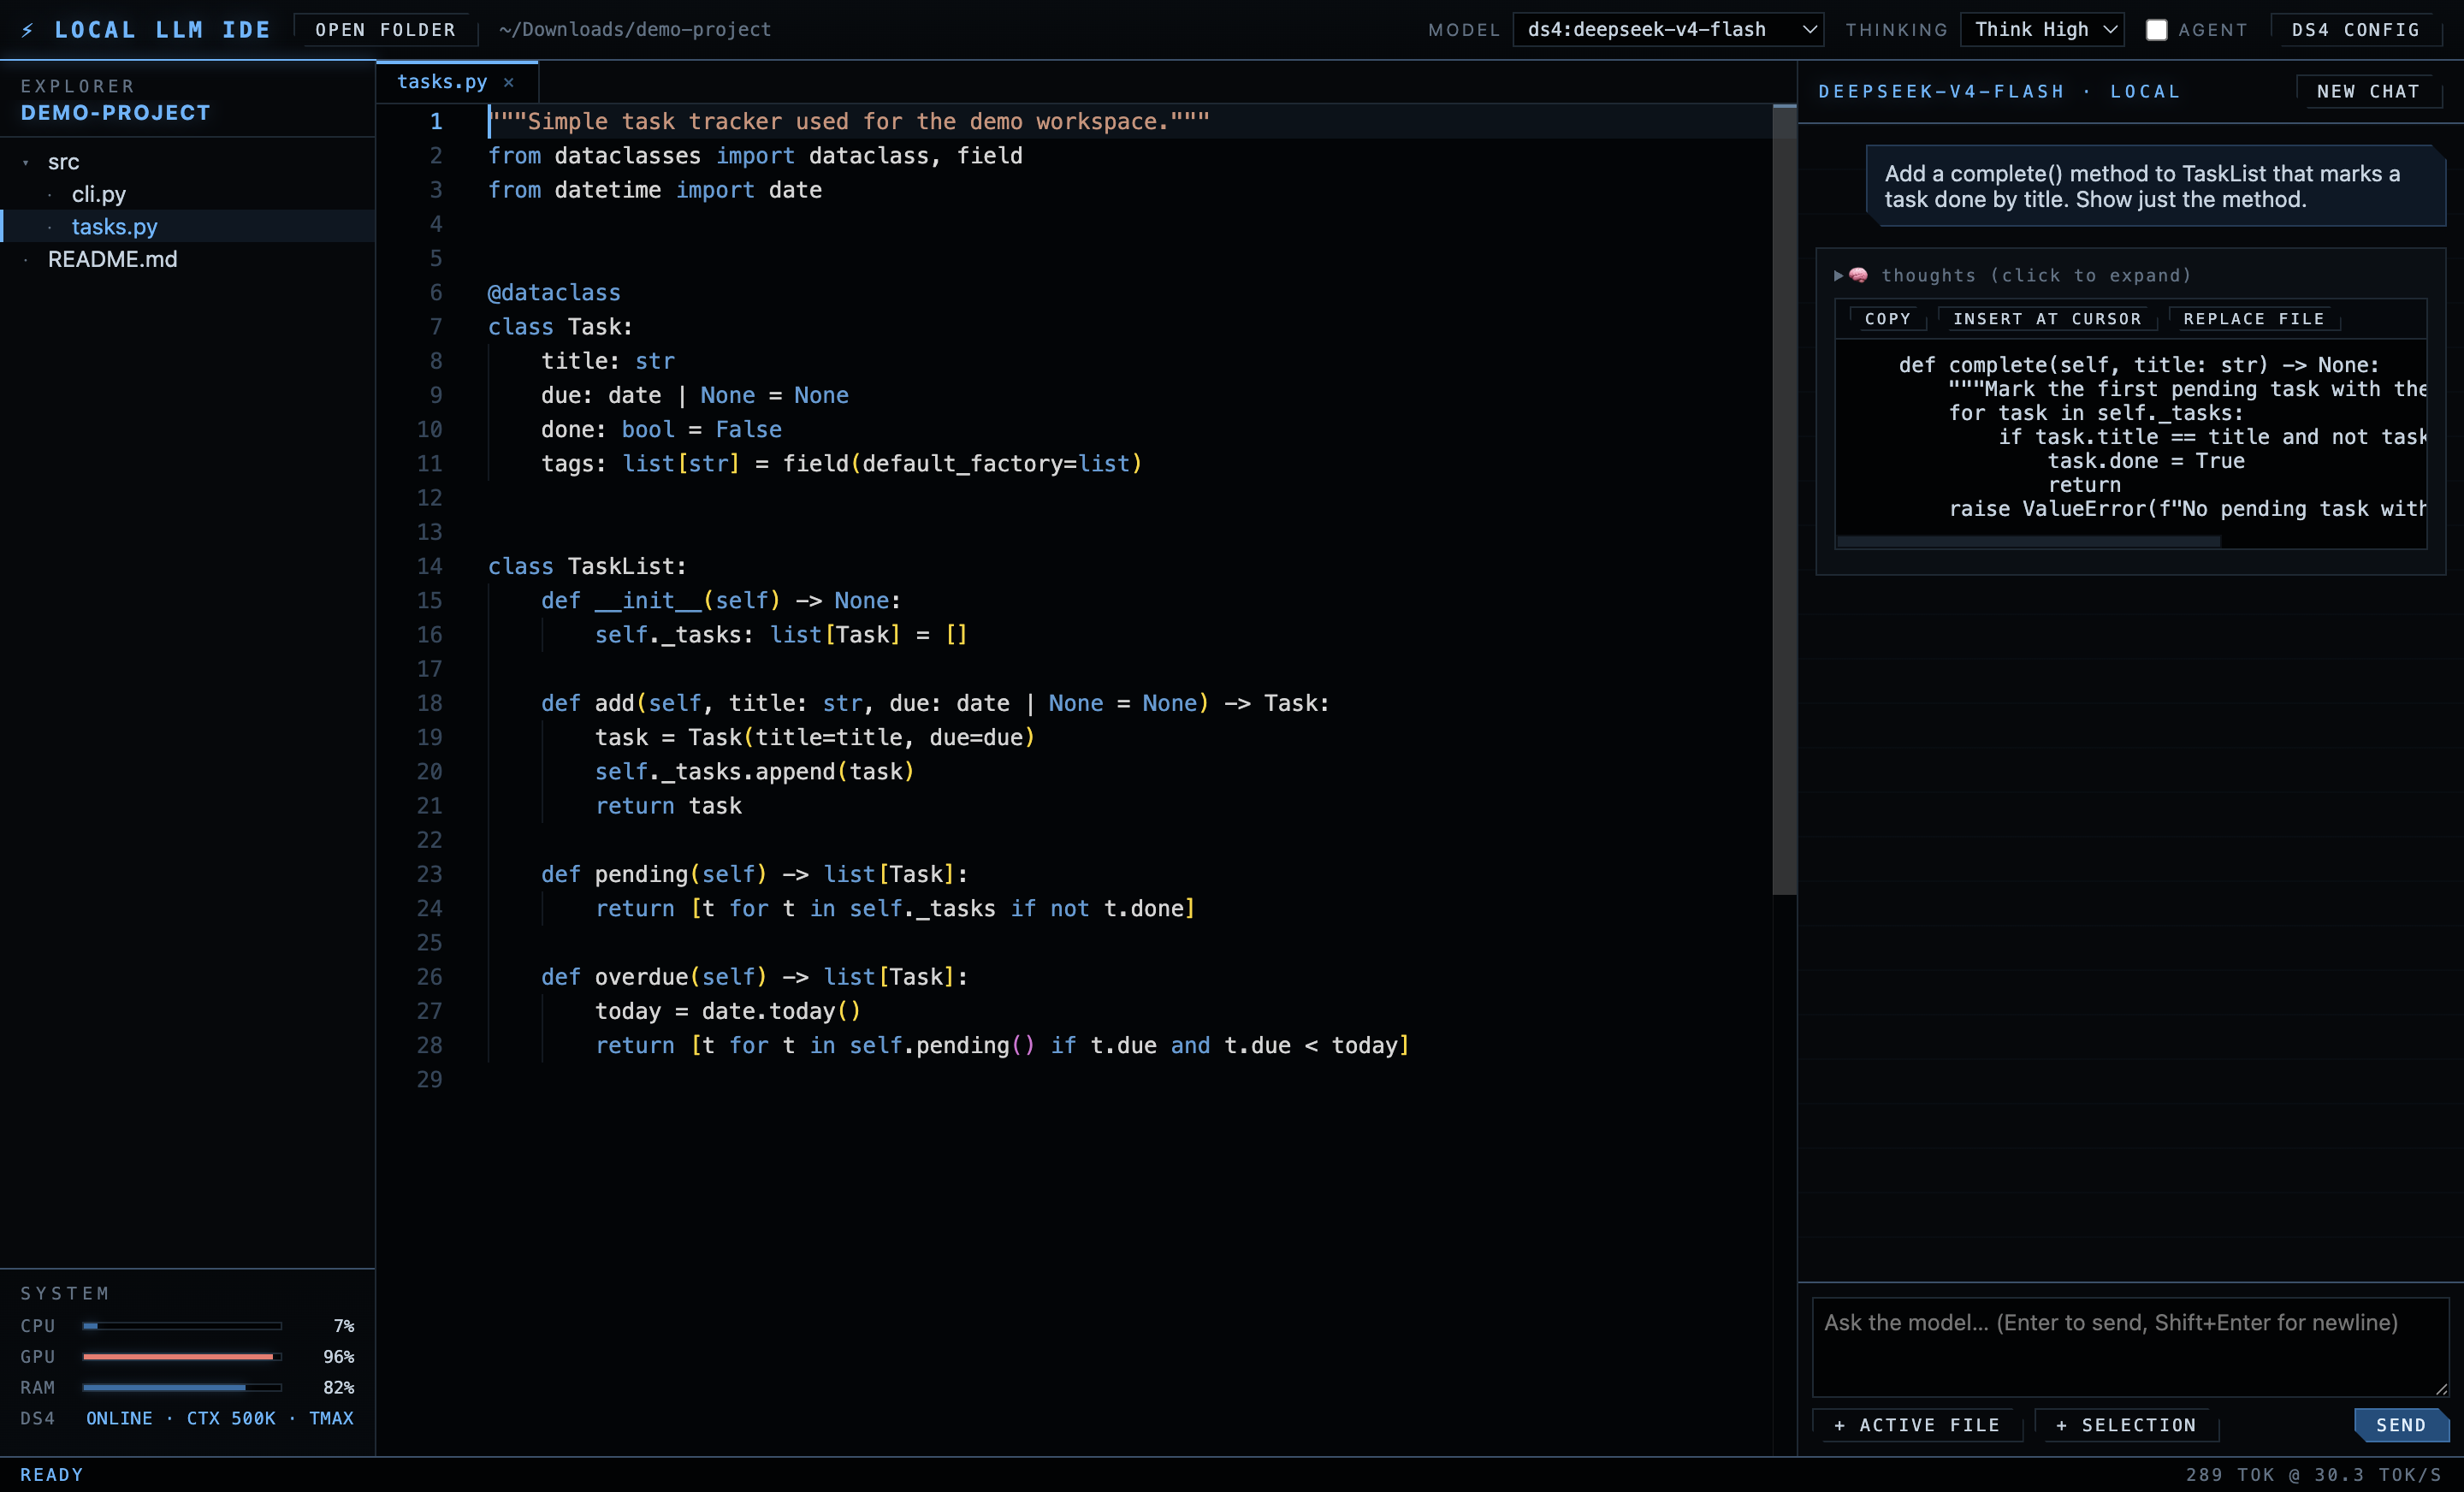
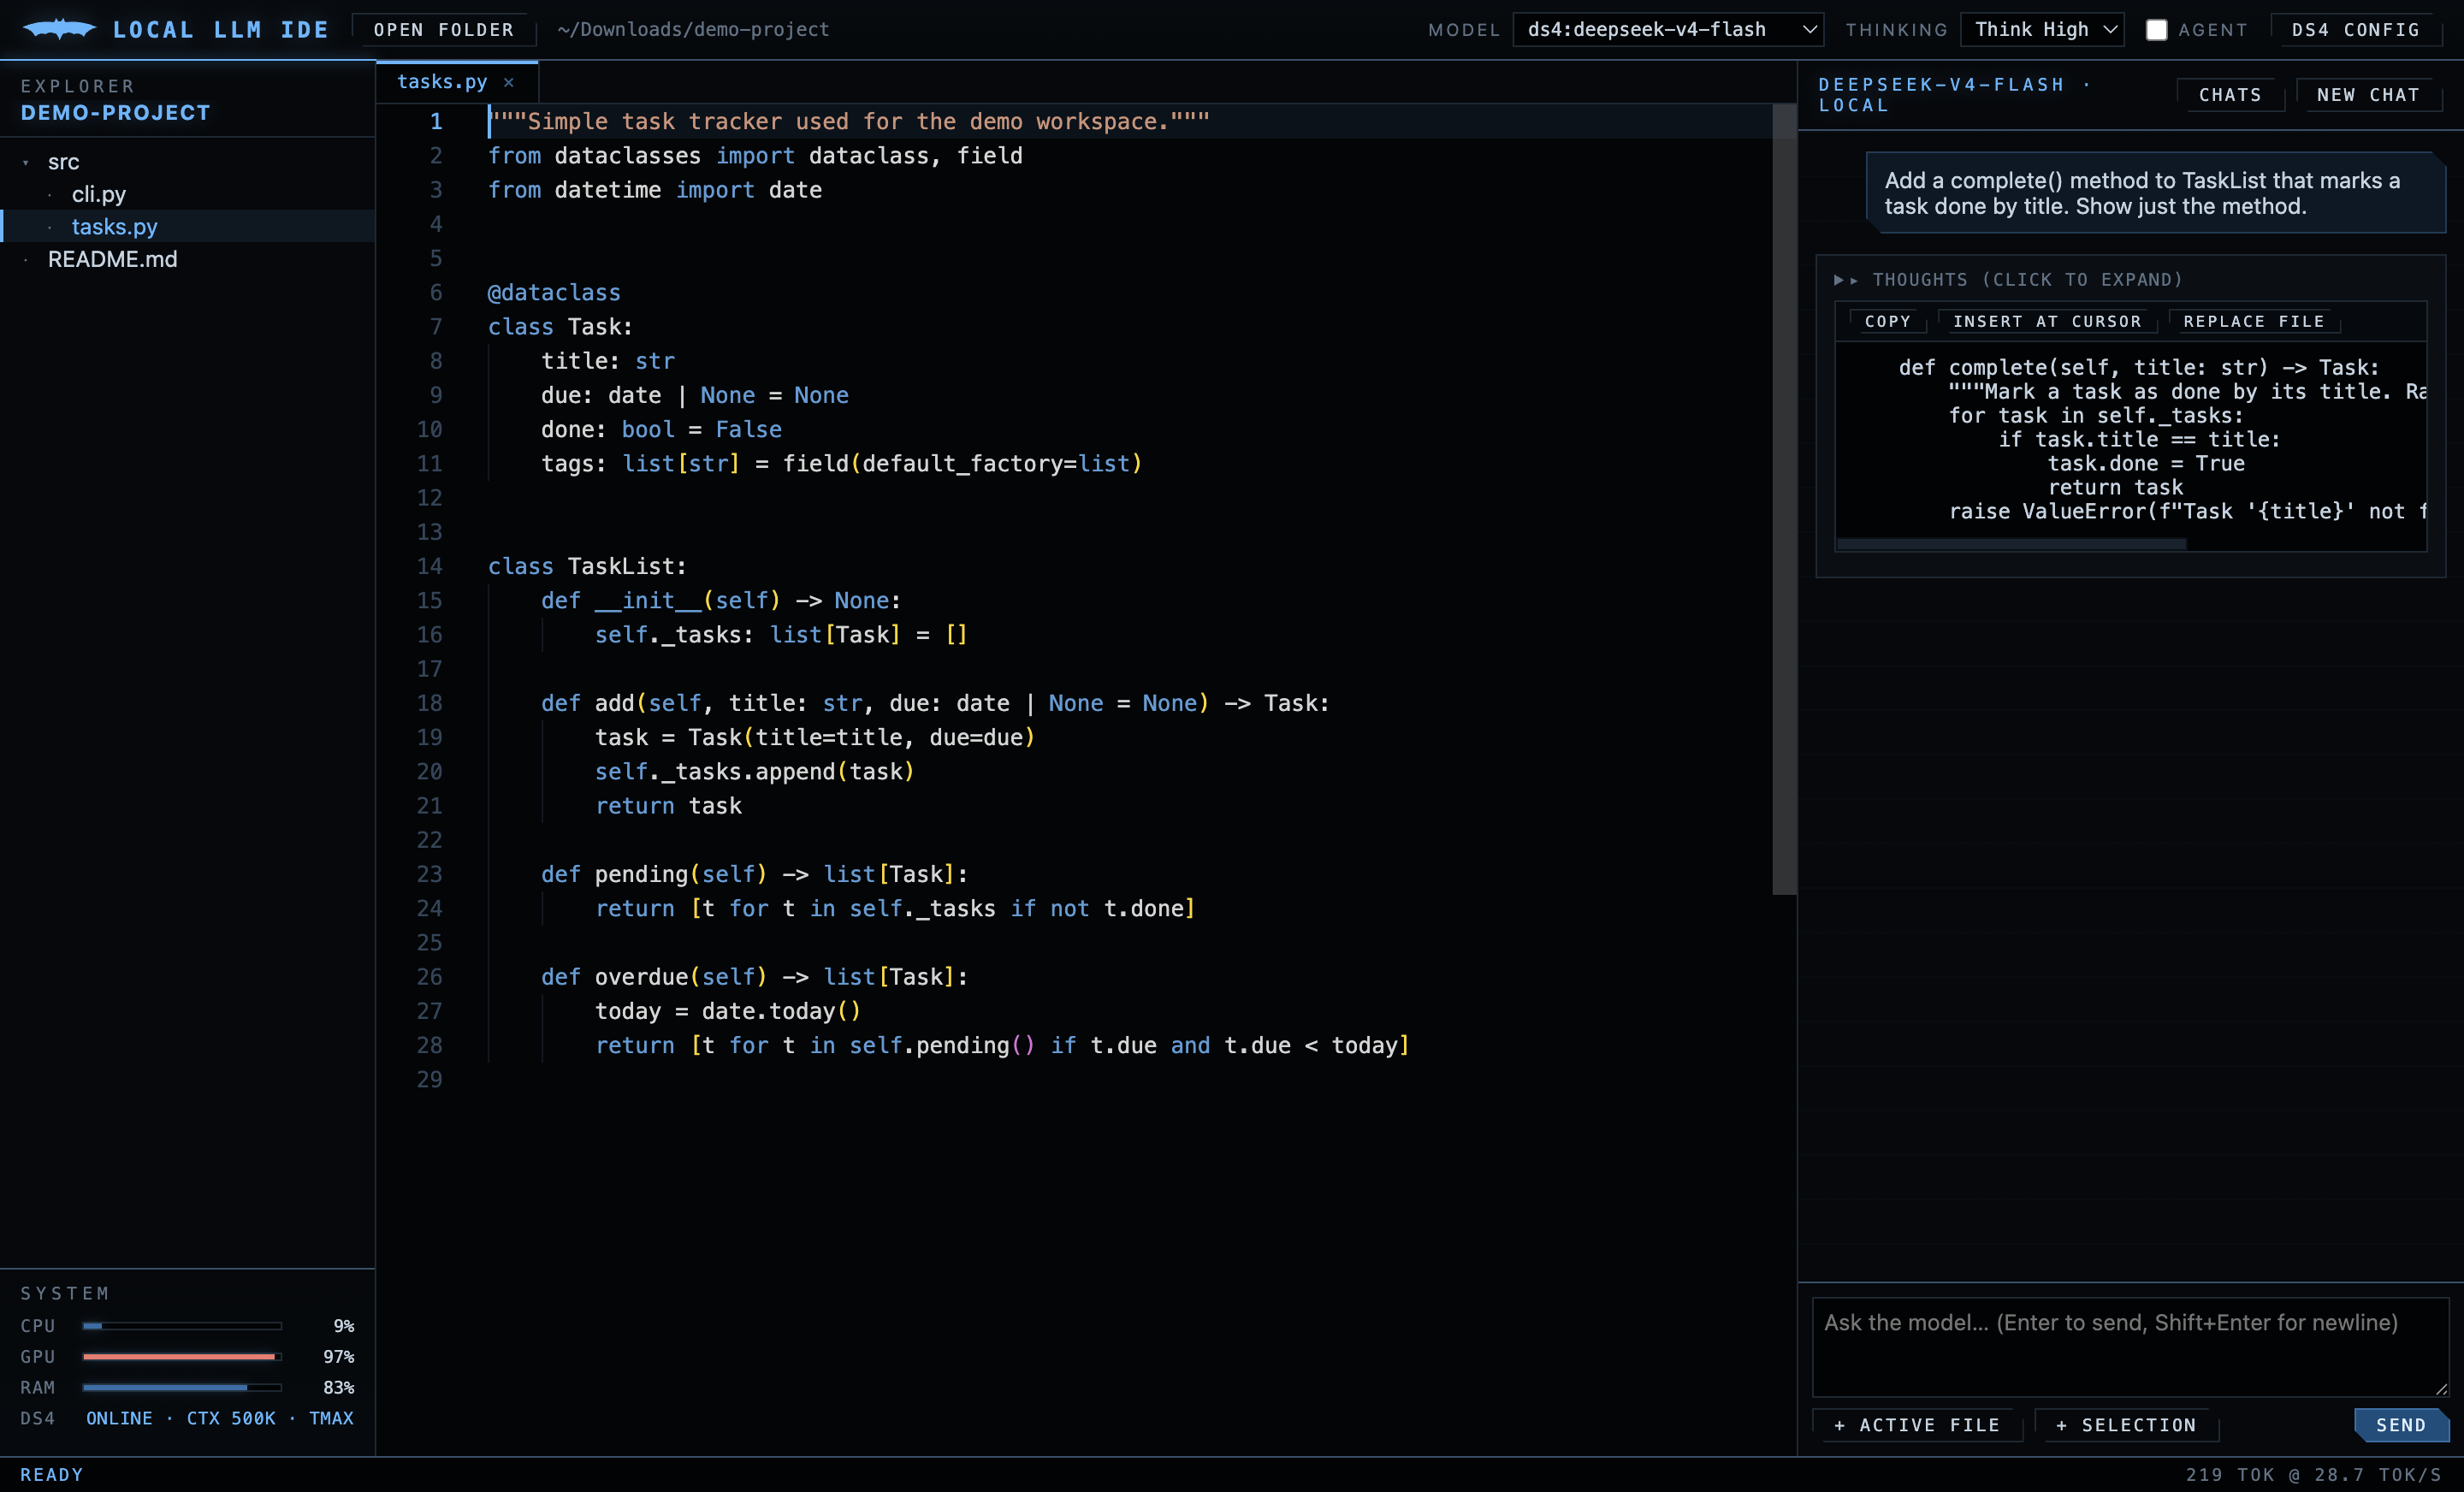
Persistent chat sessions + full Batcomputer branding
- Chats persist to ~/.local-llm-ide/chats as JSON; new /api/chats CRUD
- Chats panel in the chat header: reopen any stored session or delete it
- Original angular bat emblem in topbar, editor watermark, and README
- HUD glyphs replace emoji in thinking box and tool cards

Changed region(s): [[0.7188, 0.031, 1.0, 0.3716], [0.0, 0.0, 0.3125, 0.031]]

diff --git a/ui/app.js b/ui/app.js
@@ -8,6 +8,7 @@ const state = {
   tabs: [], // {path, model, viewState, dirty}
   activePath: null,
   chat: [], // {role, content}
+  sessionId: null,
   attachments: [], // {label, content}
   streaming: false,
   abort: null,
@@ -274,7 +275,7 @@ function createAssistantView() {
         thinkBox.className = 'thinking-box';
         thinkBox.open = true;
         const sum = document.createElement('summary');
-        sum.textContent = '🧠 thinking…';
+        sum.textContent = '▸ THINKING…';
         thinkText = document.createElement('div');
         thinkText.className = 'thinking-text';
         thinkBox.append(sum, thinkText);
@@ -288,7 +289,7 @@ function createAssistantView() {
     token(text) {
       if (thinkBox && thinkBox.open) {
         thinkBox.open = false;
-        thinkBox.querySelector('summary').textContent = '🧠 thoughts (click to expand)';
+        thinkBox.querySelector('summary').textContent = '▸ THOUGHTS (CLICK TO EXPAND)';
       }
       if (!mdEl) {
         mdEl = document.createElement('div');
@@ -302,7 +303,7 @@ function createAssistantView() {
       const card = document.createElement('div');
       card.className = 'tool-card';
       const argStr = JSON.stringify(args);
-      card.innerHTML = `<span class="tool-name">⚙ ${escapeHtml(name)}</span> <span class="tool-args"></span><pre class="tool-output">running…</pre>`;
+      card.innerHTML = `<span class="tool-name">» ${escapeHtml(name)}</span> <span class="tool-args"></span><pre class="tool-output">running…</pre>`;
       card.querySelector('.tool-args').textContent = argStr.length > 120 ? argStr.slice(0, 120) + '…' : argStr;
       root.appendChild(card);
       mdEl = null; // next tokens start a fresh markdown segment after the card
@@ -465,8 +466,114 @@ async function sendChat() {
     $('#stop-btn').classList.add('hidden');
     setStatus('ready');
     if (assistantText) state.chat.push({ role: 'assistant', content: assistantText });
+    saveSession();
     for (const p of touchedFiles) refreshOpenFile(p);
     if (touchedFiles.size) loadTree();
+  }
+}
+
+// ---------- chat sessions ----------
+
+async function saveSession() {
+  if (!state.chat.length) return;
+  if (!state.sessionId) {
+    state.sessionId = Date.now().toString(36) + Math.random().toString(36).slice(2, 8);
+  }
+  const firstUser = state.chat.find((m) => m.role === 'user');
+  const title = (firstUser?.content || 'untitled').split('\n')[0].slice(0, 60);
+  try {
+    await api(`/api/chats/${state.sessionId}`, {
+      method: 'PUT',
+      headers: { 'Content-Type': 'application/json' },
+      body: JSON.stringify({ title, model: state.model, messages: state.chat }),
+    });
+  } catch (err) {
+    setStatus(`chat save failed: ${err.message}`);
+  }
+}
+
+function newChat() {
+  state.chat = [];
+  state.sessionId = null;
+  $('#chat-messages').innerHTML = '';
+  $('#chat-history').classList.add('hidden');
+}
+
+function renderStoredMessages() {
+  $('#chat-messages').innerHTML = '';
+  for (const m of state.chat) {
+    if (m.role === 'user') {
+      // strip attached-file blocks from the display copy
+      addUserBubble(m.content.split('\n\n[Attached:')[0]);
+    } else if (m.role === 'assistant') {
+      const el = document.createElement('div');
+      el.className = 'msg assistant';
+      const md = document.createElement('div');
+      md.innerHTML = marked.parse(m.content, { breaks: true });
+      el.appendChild(md);
+      enhanceCodeBlocks(md);
+      $('#chat-messages').appendChild(el);
+    }
+  }
+  scrollChat();
+}
+
+async function toggleHistory() {
+  const panel = $('#chat-history');
+  if (!panel.classList.contains('hidden')) {
+    panel.classList.add('hidden');
+    return;
+  }
+  panel.classList.remove('hidden');
+  const list = $('#chat-history-list');
+  list.innerHTML = '';
+  try {
+    const { chats } = await api('/api/chats');
+    if (!chats.length) {
+      list.innerHTML = '<div class="history-empty">NO STORED SESSIONS</div>';
+      return;
+    }
+    for (const c of chats) {
+      const item = document.createElement('div');
+      item.className = 'history-item';
+      const title = document.createElement('span');
+      title.className = 'h-title';
+      title.textContent = c.title || 'untitled';
+      const meta = document.createElement('span');
+      meta.className = 'h-meta';
+      meta.textContent = `${c.count} msg · ${new Date(c.updatedAt).toLocaleString([], { month: 'short', day: 'numeric', hour: '2-digit', minute: '2-digit' })}`;
+      const del = document.createElement('span');
+      del.className = 'h-del';
+      del.textContent = '✕';
+      del.title = 'Delete this chat';
+      del.addEventListener('click', async (e) => {
+        e.stopPropagation();
+        try {
+          await api(`/api/chats/${c.id}`, { method: 'DELETE' });
+          item.remove();
+          if (state.sessionId === c.id) newChat();
+          if (!list.childElementCount) list.innerHTML = '<div class="history-empty">NO STORED SESSIONS</div>';
+        } catch (err) {
+          setStatus(`delete failed: ${err.message}`);
+        }
+      });
+      item.append(title, meta, del);
+      item.addEventListener('click', async () => {
+        try {
+          const session = await api(`/api/chats/${c.id}`);
+          state.chat = session.messages || [];
+          state.sessionId = session.id;
+          renderStoredMessages();
+          $('#chat-history').classList.add('hidden');
+          setStatus(`loaded chat: ${session.title}`);
+        } catch (err) {
+          setStatus(`load failed: ${err.message}`);
+        }
+      });
+      list.appendChild(item);
+    }
+  } catch (err) {
+    list.innerHTML = `<div class="history-empty">FAILED TO LOAD: ${escapeHtml(err.message)}</div>`;
   }
 }
 
@@ -711,10 +818,8 @@ function init() {
   $('#stop-btn').addEventListener('click', () => state.abort?.abort());
   $('#attach-file').addEventListener('click', attachActiveFile);
   $('#attach-selection').addEventListener('click', attachSelection);
-  $('#clear-chat').addEventListener('click', () => {
-    state.chat = [];
-    $('#chat-messages').innerHTML = '';
-  });
+  $('#clear-chat').addEventListener('click', newChat);
+  $('#chat-history-btn').addEventListener('click', toggleHistory);
   $('#chat-input').addEventListener('keydown', (e) => {
     if (e.key === 'Enter' && !e.shiftKey) { e.preventDefault(); sendChat(); }
   });

diff --git a/server.js b/server.js
@@ -236,6 +236,63 @@ app.get('/api/system', async (req, res) => {
   });
 });
 
+// ---------- chat sessions (persisted to disk) ----------
+
+const CHATS_DIR = path.join(os.homedir(), '.local-llm-ide', 'chats');
+fsSync.mkdirSync(CHATS_DIR, { recursive: true });
+
+function chatFile(id) {
+  if (!/^[a-z0-9-]{1,64}$/i.test(id)) throw new Error('invalid chat id');
+  return path.join(CHATS_DIR, `${id}.json`);
+}
+
+app.get('/api/chats', async (req, res) => {
+  try {
+    const files = (await fs.readdir(CHATS_DIR)).filter((f) => f.endsWith('.json'));
+    const chats = [];
+    for (const f of files) {
+      try {
+        const data = JSON.parse(await fs.readFile(path.join(CHATS_DIR, f), 'utf8'));
+        chats.push({ id: data.id, title: data.title, updatedAt: data.updatedAt, model: data.model, count: (data.messages || []).length });
+      } catch { /* skip corrupt file */ }
+    }
+    chats.sort((a, b) => (b.updatedAt || 0) - (a.updatedAt || 0));
+    res.json({ chats });
+  } catch (err) {
+    sendErr(res, err);
+  }
+});
+
+app.get('/api/chats/:id', async (req, res) => {
+  try {
+    res.json(JSON.parse(await fs.readFile(chatFile(req.params.id), 'utf8')));
+  } catch (err) {
+    sendErr(res, err, 404);
+  }
+});
+
+app.put('/api/chats/:id', async (req, res) => {
+  try {
+    const file = chatFile(req.params.id);
+    let createdAt = Date.now();
+    try { createdAt = JSON.parse(await fs.readFile(file, 'utf8')).createdAt || createdAt; } catch { /* new chat */ }
+    const { title, model, messages } = req.body;
+    await fs.writeFile(file, JSON.stringify({ id: req.params.id, title, model, messages, createdAt, updatedAt: Date.now() }));
+    res.json({ ok: true });
+  } catch (err) {
+    sendErr(res, err);
+  }
+});
+
+app.delete('/api/chats/:id', async (req, res) => {
+  try {
+    await fs.unlink(chatFile(req.params.id));
+    res.json({ ok: true });
+  } catch (err) {
+    sendErr(res, err, 404);
+  }
+});
+
 // ---------- agent tools ----------
 
 const TOOL_DEFS = [

diff --git a/ui/index.html b/ui/index.html
@@ -2,12 +2,15 @@
 <html lang="en">
 <head>
   <meta charset="utf-8" />
-  <title>Local LLM IDE</title>
+  <title>Local LLM IDE — Batcomputer</title>
   <link rel="stylesheet" href="/style.css" />
 </head>
 <body>
   <div id="topbar">
-    <span id="logo">⚡ Local LLM IDE</span>
+    <span id="logo">
+      <svg id="logo-bat" viewBox="0 0 200 70" xmlns="http://www.w3.org/2000/svg"><path d="M4 28 Q44 10 86 15 L91 4 L96 13 L104 13 L109 4 L114 15 Q156 10 196 28 Q170 34 162 52 Q150 40 136 46 Q124 38 114 44 Q108 40 100 62 Q92 40 86 44 Q76 38 64 46 Q50 40 38 52 Q30 34 4 28 Z" fill="currentColor"/></svg>
+      Local LLM IDE
+    </span>
     <button id="open-folder" title="Open a workspace folder">Open Folder</button>
     <span id="ws-path" title=""></span>
     <span class="spacer"></span>
@@ -41,14 +44,26 @@
     <div id="editor-area">
       <div id="tabs"></div>
       <div id="editor"></div>
-      <div id="editor-empty">Open a folder, then click a file — or just start chatting →</div>
+      <div id="editor-empty">
+        <svg id="watermark-bat" viewBox="0 0 200 70" xmlns="http://www.w3.org/2000/svg"><path d="M4 28 Q44 10 86 15 L91 4 L96 13 L104 13 L109 4 L114 15 Q156 10 196 28 Q170 34 162 52 Q150 40 136 46 Q124 38 114 44 Q108 40 100 62 Q92 40 86 44 Q76 38 64 46 Q50 40 38 52 Q30 34 4 28 Z" fill="none" stroke="currentColor" stroke-width="0.8" stroke-dasharray="3 2"/></svg>
+        <div>Open a folder, then click a file — or just start chatting →</div>
+      </div>
     </div>
     <div id="chat-panel">
       <div id="chat-header">
         <span id="chat-model-label">LOCAL MODEL</span>
-        <button id="clear-chat" title="Clear conversation">New chat</button>
+        <span class="header-buttons">
+          <button id="chat-history-btn" title="View or delete previous chats">Chats</button>
+          <button id="clear-chat" title="Start a new conversation">New chat</button>
+        </span>
       </div>
-      <div id="chat-messages"></div>
+      <div id="chat-body">
+        <div id="chat-messages"></div>
+        <div id="chat-history" class="hidden">
+          <div class="history-title">STORED SESSIONS</div>
+          <div id="chat-history-list"></div>
+        </div>
+      </div>
       <div id="chat-input-area">
         <div id="context-chips"></div>
         <textarea id="chat-input" rows="3" placeholder="Ask the model… (Enter to send, Shift+Enter for newline)"></textarea>

diff --git a/ui/style.css b/ui/style.css
@@ -63,8 +63,9 @@ select:focus, textarea:focus, input:focus { outline: none; border-color: var(--a
 #logo {
   font-family: var(--mono); font-weight: 700; font-size: 13px; letter-spacing: 2px;
   text-transform: uppercase; color: var(--accent); text-shadow: 0 0 12px var(--glow);
-  white-space: nowrap;
+  white-space: nowrap; display: flex; align-items: center; gap: 8px;
 }
+#logo-bat { height: 16px; width: auto; filter: drop-shadow(0 0 6px var(--glow)); }
 #topbar label { white-space: nowrap; }
 #ws-path { color: var(--fg-dim); font-family: var(--mono); font-size: 11px; max-width: 300px; overflow: hidden; text-overflow: ellipsis; white-space: nowrap; }
 #topbar label { display: flex; align-items: center; gap: 6px; color: var(--fg-dim); font-size: 10px; letter-spacing: 1.5px; text-transform: uppercase; }
@@ -126,9 +127,11 @@ select:focus, textarea:focus, input:focus { outline: none; border-color: var(--a
 .tab .dirty { color: var(--yellow); }
 #editor { flex: 1; min-height: 0; }
 #editor-empty {
-  position: absolute; inset: 40px 0 0 0; display: flex; align-items: center; justify-content: center;
+  position: absolute; inset: 40px 0 0 0; display: flex; flex-direction: column; gap: 28px;
+  align-items: center; justify-content: center;
   color: var(--fg-dim); pointer-events: none; font-family: var(--mono); font-size: 12px; letter-spacing: 1px;
 }
+#watermark-bat { width: 46%; max-width: 520px; color: var(--accent); opacity: 0.35; }
 
 /* ---------- chat ---------- */
 #chat-panel {
@@ -141,11 +144,29 @@ select:focus, textarea:focus, input:focus { outline: none; border-color: var(--a
   border-bottom: 1px solid var(--border-bright); font-family: var(--mono);
   text-shadow: 0 0 10px var(--glow);
 }
+.header-buttons { display: flex; gap: 6px; }
+#chat-body { flex: 1; min-height: 0; position: relative; display: flex; }
 #chat-messages {
   flex: 1; overflow-y: auto; padding: 12px 10px; display: flex; flex-direction: column; gap: 12px;
   background-image: linear-gradient(rgba(88, 182, 255, 0.025) 1px, transparent 1px);
   background-size: 100% 26px;
 }
+#chat-history {
+  position: absolute; inset: 0; background: var(--bg-panel); z-index: 10;
+  overflow-y: auto; padding: 10px; display: flex; flex-direction: column; gap: 6px;
+}
+.history-title { font-family: var(--mono); font-size: 10px; letter-spacing: 3px; color: var(--fg-dim); padding-bottom: 6px; border-bottom: 1px solid var(--border); }
+.history-empty { color: var(--fg-dim); font-family: var(--mono); font-size: 11px; padding: 8px 2px; }
+.history-item {
+  display: flex; align-items: center; gap: 8px; padding: 7px 9px; cursor: pointer;
+  background: var(--bg-elevated); border: 1px solid var(--border);
+  clip-path: polygon(0 0, calc(100% - 8px) 0, 100% 8px, 100% 100%, 8px 100%, 0 calc(100% - 8px));
+}
+.history-item:hover { border-color: var(--accent-dim); box-shadow: 0 0 10px var(--glow) inset; }
+.history-item .h-title { flex: 1; font-size: 12px; color: var(--fg); overflow: hidden; text-overflow: ellipsis; white-space: nowrap; }
+.history-item .h-meta { font-family: var(--mono); font-size: 9px; color: var(--fg-dim); white-space: nowrap; }
+.history-item .h-del { color: var(--fg-dim); font-family: var(--mono); font-size: 11px; padding: 0 4px; }
+.history-item .h-del:hover { color: var(--red); text-shadow: 0 0 8px rgba(244, 119, 109, 0.5); }
 .msg { padding: 8px 10px; max-width: 100%; overflow-wrap: break-word; }
 .msg.user {
   background: #0b1826; border: 1px solid #1d3a55; align-self: flex-end; white-space: pre-wrap; max-width: 92%;

diff --git a/README.md b/README.md
@@ -1,5 +1,6 @@
 <table>
   <tr>
+    <td><img src="docs/images/bat.svg" width="90" alt="batcomputer"/></td>
     <td><h1>Local-LLM-IDE</h1></td>
     <td>
       <p align="right">
@@ -14,7 +15,7 @@
 
 <h2>Description</h2>
 <br/>
-In this project, we build a VS Code-style desktop IDE for locally hosted LLMs. The app combines the Monaco editor (the editor component that powers VS Code), a file explorer, and a streaming chat panel with an agent mode that can read files, write files, and run shell commands inside the open workspace. Everything runs against inference servers on localhost, so the IDE works fully offline with no API keys and no cloud dependency. Any model behind a local OpenAI-compatible endpoint or an Ollama daemon can drive it; the reference setup here is DeepSeek V4 Flash served by DwarfStar's <code>ds4-server</code>.
+In this project, we build a Batcomputer-styled desktop IDE for locally hosted LLMs: a black wireframe-blue HUD with angular panels, a live SYSTEM readout (CPU, GPU, RAM, model status), and an original bat emblem. The app combines the Monaco editor (the editor component that powers VS Code), a file explorer, and a streaming chat panel with an agent mode that can read files, write files, and run shell commands inside the open workspace. Everything runs against inference servers on localhost, so the IDE works fully offline with no API keys and no cloud dependency. Any model behind a local OpenAI-compatible endpoint or an Ollama daemon can drive it; the reference setup here is DeepSeek V4 Flash served by DwarfStar's <code>ds4-server</code>.
 <br />
 <br/> Project Architecture: <br/>
 <img src="docs/images/architecture.svg"/>
@@ -32,6 +33,7 @@ In this project, we build a VS Code-style desktop IDE for locally hosted LLMs. T
 | **ds4-server (DwarfStar)** | Runs DeepSeek V4 Flash from a local GGUF and exposes OpenAI-compatible endpoints on `127.0.0.1:8000`. |
 | **Agent tool loop**    | Lets the model call `read_file`, `write_file`, `list_directory`, and `run_command`, scoped to the open workspace. |
 | **Ollama** (optional)  | Any locally pulled Ollama model shows up in the model dropdown alongside DeepSeek. |
+| **Chat sessions**      | Conversations persist to `~/.local-llm-ide/chats/`; the Chats panel reopens or deletes any previous session. |
 
 ### **Notes for Usage**
 1. **Required**: Node.js 20+ and one local inference server — DwarfStar `ds4-server` with a DeepSeek V4 Flash GGUF (default), or an Ollama daemon with at least one pulled model.
@@ -70,6 +72,8 @@ npm start        # desktop app
 | **Think Max** | Deepest reasoning. Requires `ds4-server --ctx 393216` or larger; smaller contexts fall back to Think High automatically. |
 
 The thinking dropdown applies to any model that supports reasoning modes — Ollama models with thinking support use the same toggle.
+
+Every conversation is stored on disk as soon as the model replies. The <b>Chats</b> button in the panel header lists stored sessions with timestamps; click one to reopen it with full context, or delete it with the ✕ on the row. <b>New chat</b> starts a fresh session without touching the stored ones.
 
 ## Step 3: Agent mode
 